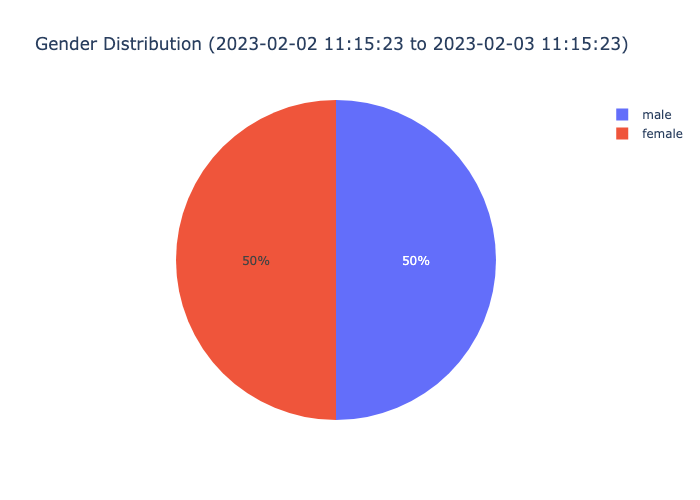
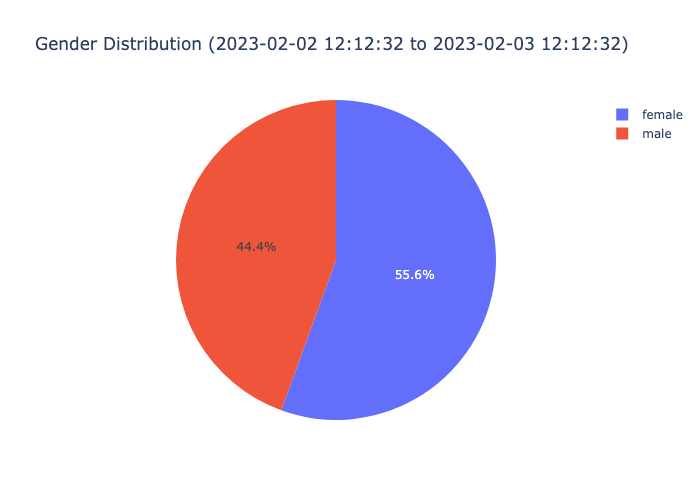
age distributions, avg data and totals

diff --git a/Daily_Report/data_extraction.py b/Daily_Report/data_extraction.py
@@ -42,16 +42,17 @@ def gender_distribution(df: pd.DataFrame) -> dict:
     """Determines the gender distribution of riders for the past 24 hours; returns a dict
     """
     data = dict(df["gender"].value_counts())
-    plot_data = {"gender": list(data.keys()), "count": list(data.values())}
 
-    return plot_data
+    return data
 
 
 def gender_plot(data: dict) -> px.pie:
     """Pie plot of the gender distributions for the riders for the past 24 hours
     """
+    plot_data = {"gender": list(data.keys()), "count": list(data.values())}
+
     fig = px.pie(
-        data, values="count", names="gender",
+        plot_data, values="count", names="gender",
         labels={
             "count": "Count",
             "gender": "Gender"
@@ -61,6 +62,85 @@ def gender_plot(data: dict) -> px.pie:
     return fig.write_image("Plots/gender_distribution.png")
 
 
+def age_from_dob(born: datetime.date) -> int:
+    """Find user's age from DOB"""
+    today = datetime.date.today()
+
+    return today.year - born.year - ((today.month, today.day) < (born.month, born.day))
+
+
+def age_into_brackets(age: int) -> str:
+    """Puts the age into its corresponding bracket - returns the bracket"""
+    if age < 18:
+        return "<17"
+    elif age < 25:
+        return "18-24"
+    elif age < 35:
+        return "25-34"
+    elif age < 45:
+        return "35-44"
+    elif age < 55:
+        return "45-54"
+    elif age < 65:
+        return "55-64"
+    else:
+        return "65+"
+
+
+def extract_ages(df: pd.DataFrame) -> list:
+    """Extracts the ages of users from the past 24 hours and returns a list of all ages"""
+    ages = df["dob_date"].apply(age_from_dob)
+    # 18-24, 25-34, 35-44, 45-54, 55-64 and 65 and over
+    age_brackets = {
+        "<17": 0, "18-24": 0, "25-34": 0, "35-44": 0, "45-54": 0,
+        "55-64": 0, "65+": 0
+    }
+
+    for age in ages:
+        age_brackets[age_into_brackets(age)] += 1
+
+    return age_brackets
+
+
+def age_plot(data: dict) -> px.bar:
+    """Bar chart plot of the age distributions based on the age brackets"""
+    plot_data = {"bracket": list(data.keys()), "count": list(data.values())}
+
+    fig = px.bar(plot_data, x="bracket", y="count",
+                 labels={
+                     "count": "Count",
+                     "bracket": "Age Bracket"
+                 },
+                 title=f"Age Distribution ({LAST_DAY} to {TODAY_FORMATTED})"
+                 )
+
+    return fig.write_image("Plots/age_distribution.png")
+
+
+def extract_averages(df: pd.DataFrame) -> dict:
+    """Extracts the average duration, rpm, power, resistance, heart rate from the last 24 hours of data - returns a dict"""
+    avg_data = {
+        "avg_duration": df["duration"].mean(),
+        "avg_rpm": df["avg_rpm"].mean(),
+        "avg_power": df["avg_power"].mean(),
+        "avg_resistance": df["avg_resistance"].mean(),
+        "avg_heart_rate": df["avg_heart_rate"].mean()
+    }
+
+    return avg_data
+
+
+def extract_total(df: pd.DataFrame) -> dict:
+    """Extracts total duration and power for the past 24 hours - returns a dict
+    """
+    total_data = {
+        "total_duration": df["duration"].sum(),
+        "total_power": df["total_power"].sum()
+    }
+
+    return total_data
+
+
 if __name__ == "__main__":
     rides = extract_last_day_data(LAST_DAY)
     print(rides.head())
@@ -68,6 +148,10 @@ if __name__ == "__main__":
     print(num_of_rides)
     users = extract_last_day_users(rides)
     print(users)
+    ages = extract_ages(users)
     genders = gender_distribution(users)
     print(genders)
     gender_plot(genders)
+    age_plot(ages)
+    print(extract_averages(rides))
+    print(extract_total(rides))
